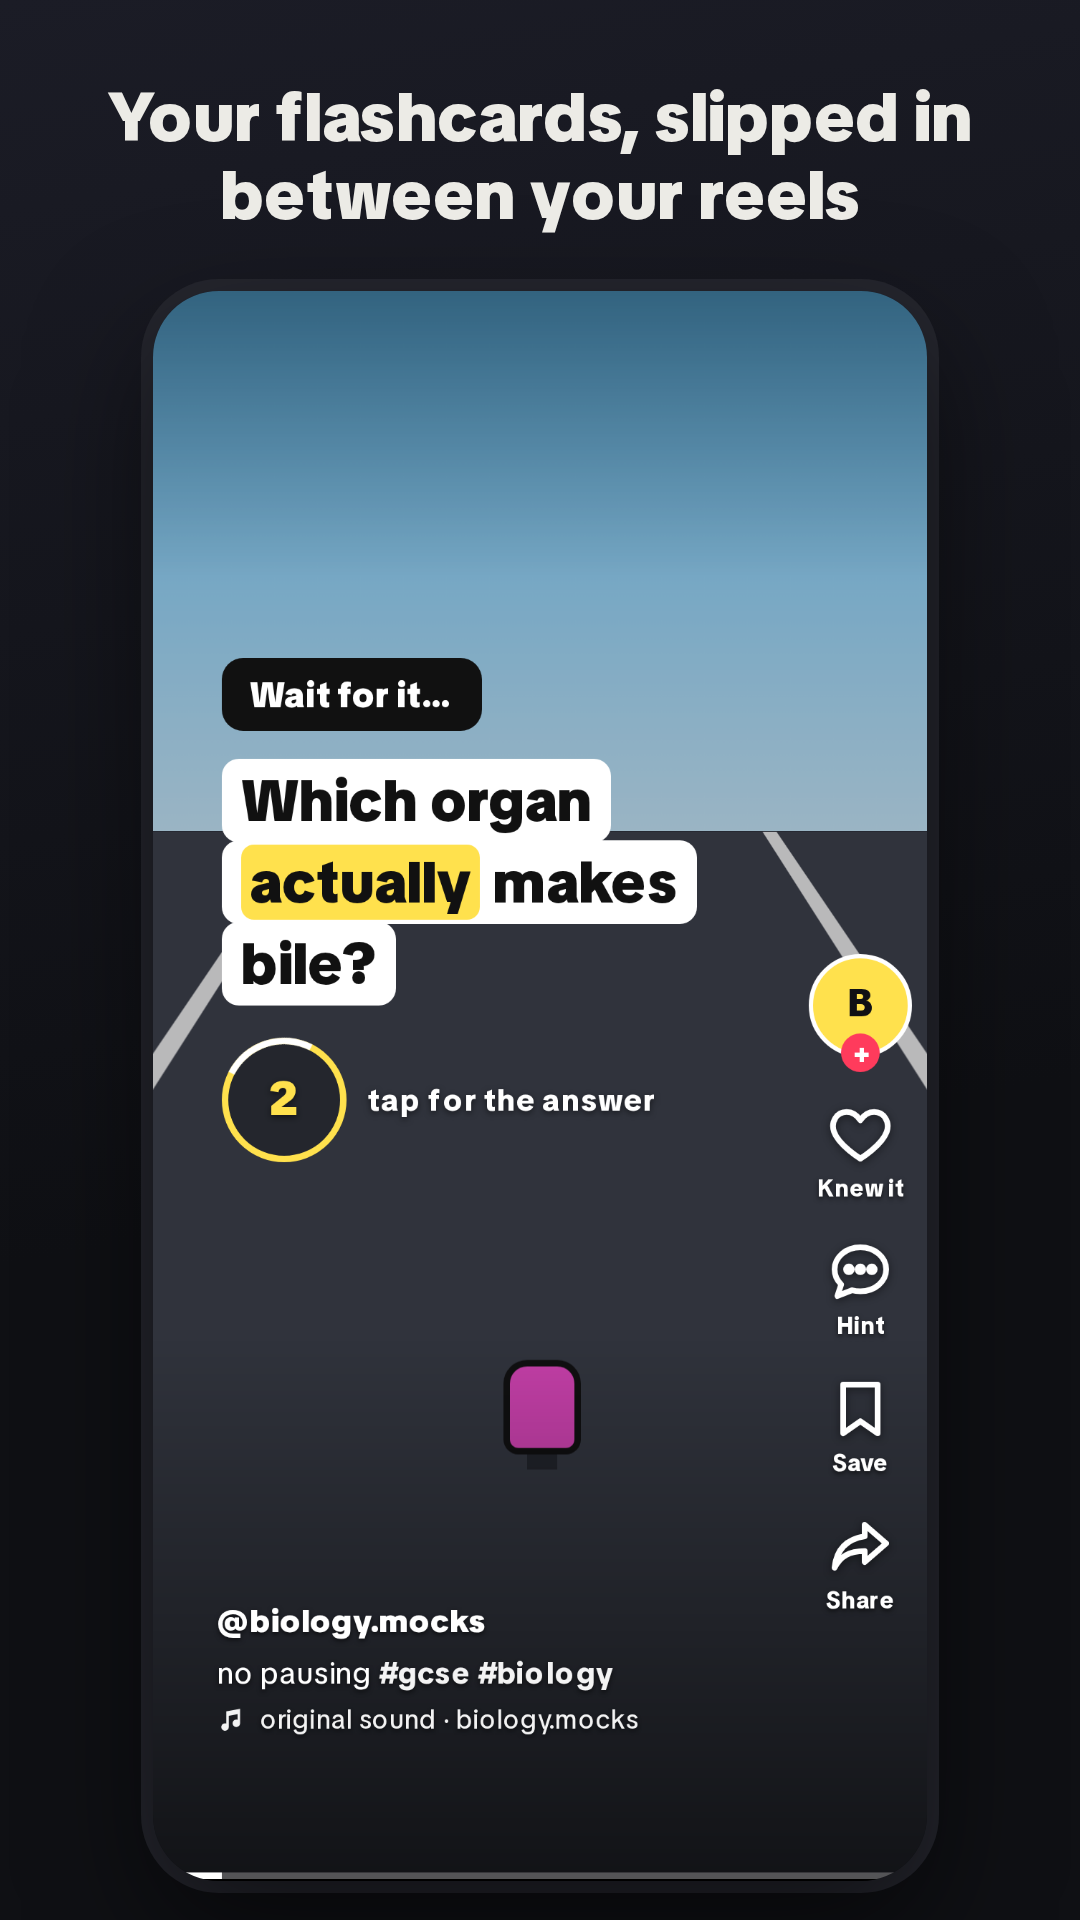
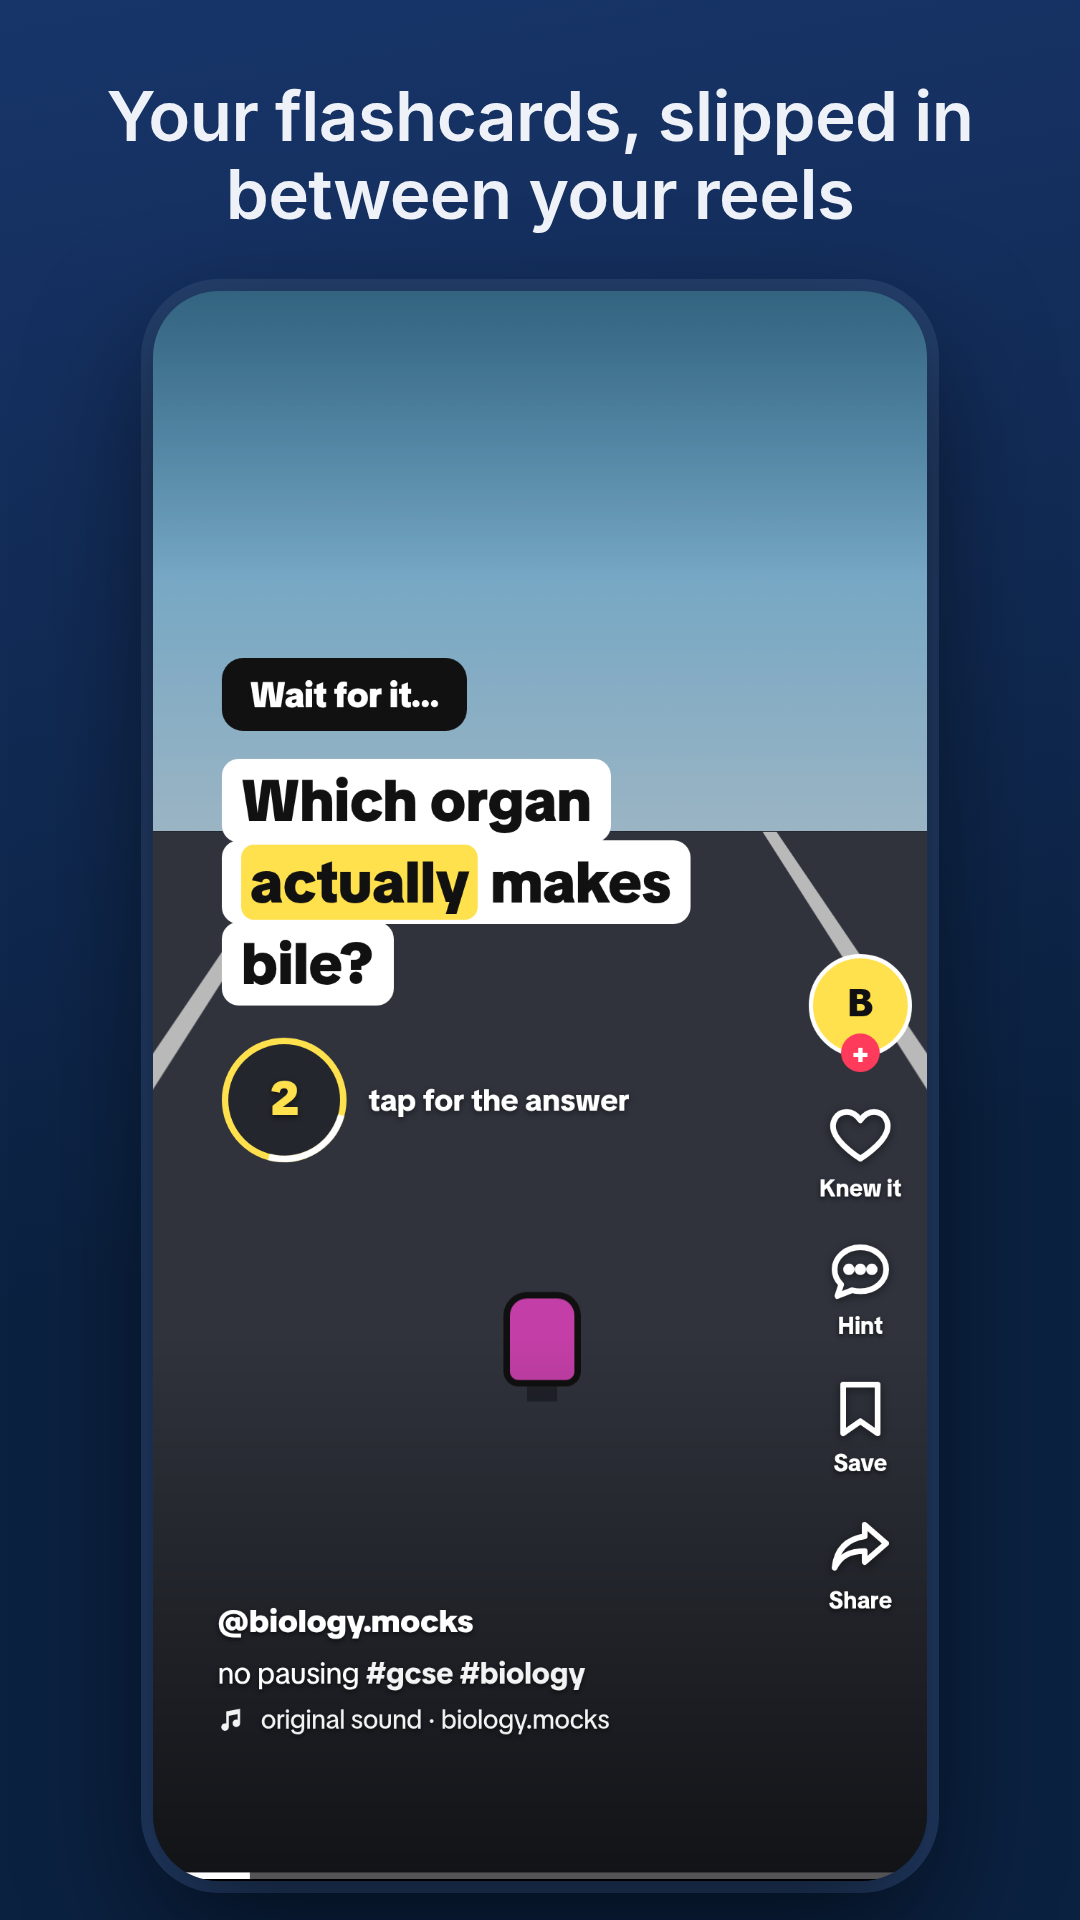
Play Store graphics in the sea's navy and orange
The feature graphic and phone screenshots were yellow on near-black. Now navy
with Inter and the swimmer's orange, like the app. tools/store-assets.py also
takes CHROMIUM=... for sandboxes where Playwright's own browser is missing.

Claude-Session: https://claude.ai/code/session_01Bq9toJ4J3vbyxgwrGqE2RX

diff --git a/tools/store-assets.py b/tools/store-assets.py
@@ -22,7 +22,8 @@ FONTS = ROOT / "app" / "src" / "main" / "assets" / "fonts"
 FACES = [("TikTok Sans", "TikTokSans-Regular.ttf", 400, "normal"), ("TikTok Sans", "TikTokSans-Bold.ttf", 700, "normal"),
          ("TikTok Sans", "TikTokSans-Black.ttf", 900, "normal"), ("Anton", "Anton-Regular.ttf", 400, "normal"),
          ("Caveat", "Caveat-Bold.ttf", 700, "normal"), ("Fraunces", "Fraunces-Bold.ttf", 700, "normal"),
-         ("Fraunces", "Fraunces-BoldItalic.ttf", 700, "italic")]
+         ("Fraunces", "Fraunces-BoldItalic.ttf", 700, "italic"),
+         ("Inter", "Inter-Regular.ttf", 400, "normal"), ("Inter", "Inter-Medium.ttf", 500, "normal"), ("Inter", "Inter-SemiBold.ttf", 700, "normal")]
 FONT_CSS = "".join("@font-face{font-family:'%s';src:url('https://fonts.local/%s');font-weight:%d;font-style:%s}\n" % f for f in FACES)
 
 # caption, then the design lab's settings: cards, app, state, which card (0-7), night
@@ -59,7 +60,7 @@ async def main():
         sys.exit("web-demo/index.html is missing: run python3 tools/build-web-demo.py first")
     OUT.mkdir(parents=True, exist_ok=True)
     async with async_playwright() as p:
-        browser = await p.chromium.launch()
+        browser = await p.chromium.launch(executable_path=os.environ.get("CHROMIUM") or None)
         ctx = await browser.new_context(viewport={"width": 1100, "height": 1000}, device_scale_factor=3)
 
         async def route(r):
@@ -97,9 +98,9 @@ async def main():
         await shot.route("https://**/*", route)
         for n, ((caption, *_), png) in enumerate(zip(SHOTS, cards), 1):
             await shot.set_content("""<!doctype html><html><head><style>%s
-                html,body{margin:0;width:360px;height:640px;overflow:hidden;background:linear-gradient(170deg,#1b1c26,#0f1014 60%%)}
-                h1{font:900 23px/1.15 'TikTok Sans',sans-serif;color:#ecebe6;text-align:center;margin:0;padding:26px 26px 0;letter-spacing:-.2px}
-                img{display:block;margin:18px auto 0;height:530px;border-radius:22px;box-shadow:0 16px 40px rgba(0,0,0,.55),0 0 0 4px #25262e}
+                html,body{margin:0;width:360px;height:640px;overflow:hidden;background:linear-gradient(170deg,#18356A,#0B2140 62%%)}
+                h1{font:700 23px/1.15 'Inter',sans-serif;color:#EEF2F8;text-align:center;margin:0;padding:26px 26px 0;letter-spacing:-.2px}
+                img{display:block;margin:18px auto 0;height:530px;border-radius:22px;box-shadow:0 16px 40px rgba(0,0,0,.55),0 0 0 4px #24406D}
                 </style></head><body><h1>%s</h1><img src="%s"></body></html>""" % (FONT_CSS, caption, data_url(png)))
             await shot.wait_for_timeout(300)
             opaque_png(await shot.screenshot(), OUT / ("phone-%d.png" % n))
@@ -109,11 +110,11 @@ async def main():
         await feat.route("https://**/*", route)
         imgs = "".join('<img class="c%d" src="%s">' % (i, data_url(cards[k])) for i, k in enumerate((3, 0, 2)))
         await feat.set_content("""<!doctype html><html><head><style>%s
-            html,body{margin:0;width:1024px;height:500px;overflow:hidden;background:radial-gradient(circle at 78%% 50%%,#2a2b38,#0f1014 62%%);font-family:'TikTok Sans',sans-serif;color:#ecebe6}
+            html,body{margin:0;width:1024px;height:500px;overflow:hidden;background:radial-gradient(circle at 78%% 50%%,#1C3F78,#0B2140 64%%);font-family:'Inter',sans-serif;color:#EEF2F8}
             .icon{position:absolute;left:64px;top:92px;width:120px;height:120px;border-radius:28px;overflow:hidden}
-            h1{position:absolute;left:64px;top:228px;margin:0;font:900 72px/1 'TikTok Sans';letter-spacing:-1.5px}
-            p{position:absolute;left:66px;top:318px;margin:0;width:470px;font:700 26px/1.25 'TikTok Sans';color:#ffe14d}
-            img{position:absolute;height:420px;border-radius:16px;box-shadow:0 12px 30px rgba(0,0,0,.6),0 0 0 3px #25262e}
+            h1{position:absolute;left:64px;top:228px;margin:0;font:700 72px/1 'Inter';letter-spacing:-2.5px}
+            p{position:absolute;left:66px;top:318px;margin:0;width:470px;font:500 26px/1.3 'Inter';color:#EE8A63}
+            img{position:absolute;height:420px;border-radius:16px;box-shadow:0 12px 30px rgba(0,0,0,.6),0 0 0 3px #24406D}
             .c0{left:600px;top:70px;transform:rotate(-7deg)} .c1{left:730px;top:40px;transform:rotate(2deg);z-index:2} .c2{left:858px;top:72px;transform:rotate(9deg)}
             </style></head><body><div class="icon">%s</div><h1>Reelcards</h1><p>Revise without trying: flashcards between your reels</p>%s</body></html>"""
             % (FONT_CSS, ICON_SVG.replace('width="512" height="512"', 'width="120" height="120"'), imgs))
